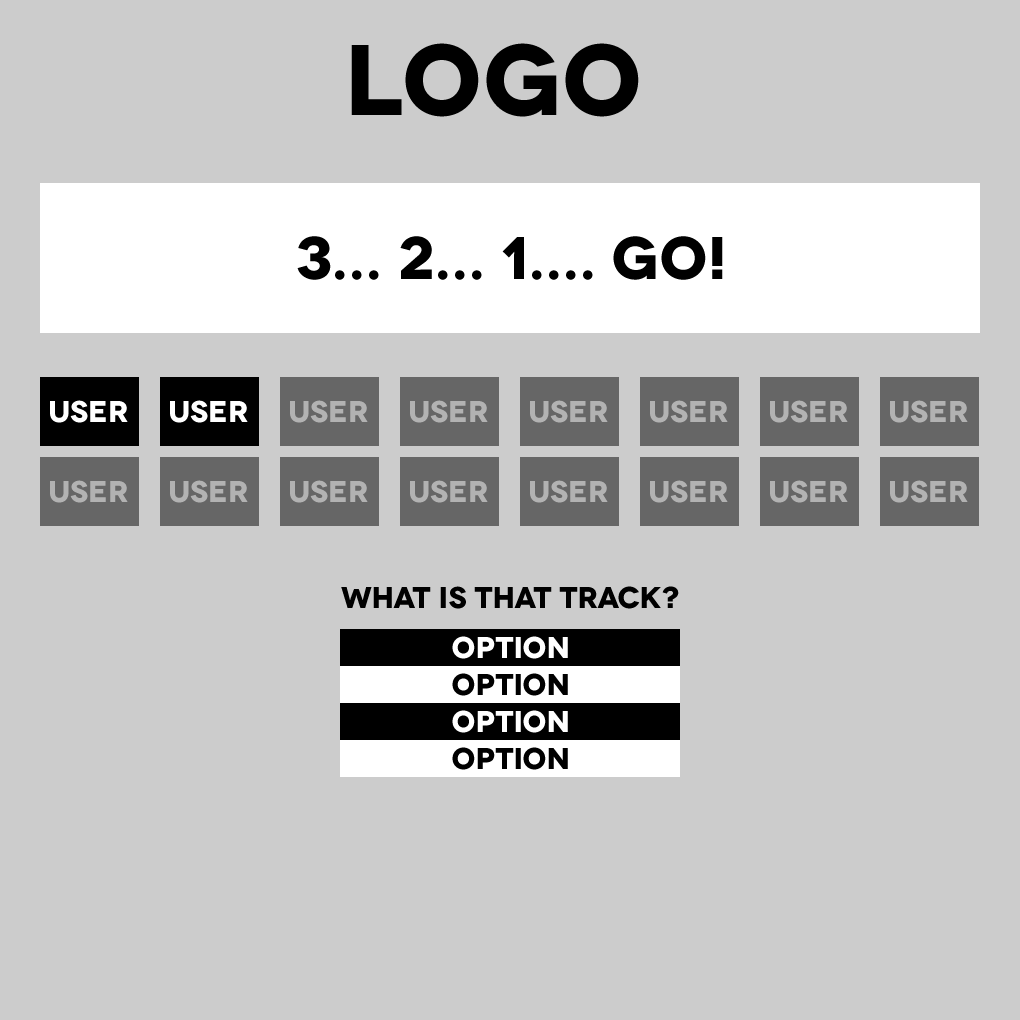
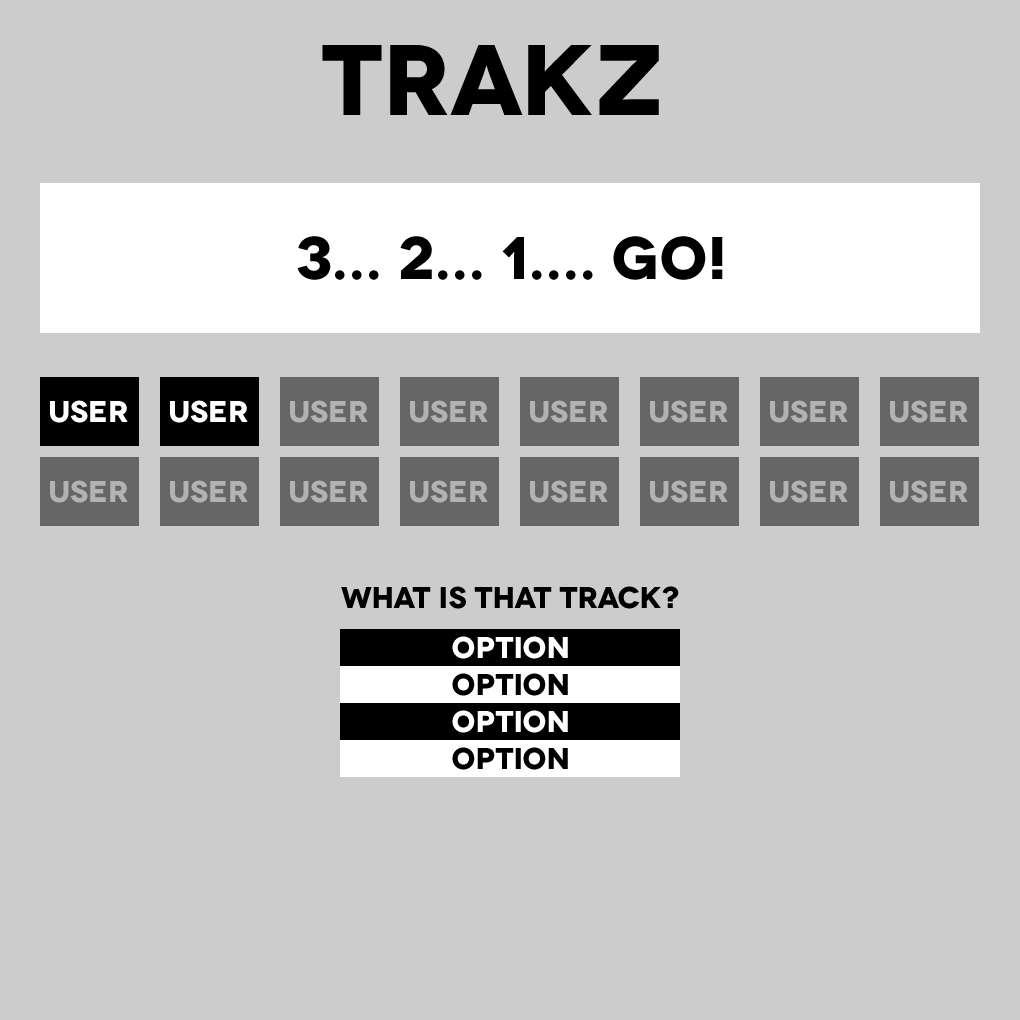
change

Changed region(s): [[0.3039, 0.0304, 0.6686, 0.1216]]

diff --git a/src/client/index.php b/src/client/index.php
@@ -8,9 +8,9 @@
 	<!-- Basic Page Needs
   ================================================== -->
 	<meta charset="utf-8">
-	<title>Your Page Title Here :)</title>
-	<meta name="description" content="">
-	<meta name="author" content="">
+	<title>Guess That Track</title>
+	<meta name="description" content="Facebook Hackday App">
+	<meta name="author" content="Cohaesus">
 
 	<!-- Mobile Specific Metas
   ================================================== -->
@@ -48,7 +48,7 @@
 
 	<div class="container">
 		<div class="sixteen columns">
-			<h1 class="remove-bottom" style="margin-top: 40px">Skeleton</h1>
+			<h1 class="remove-bottom" style="margin-top: 40px">Guess That Track</h1>
 			<h5>Version 1.2</h5>
 			<hr />
 		</div>
